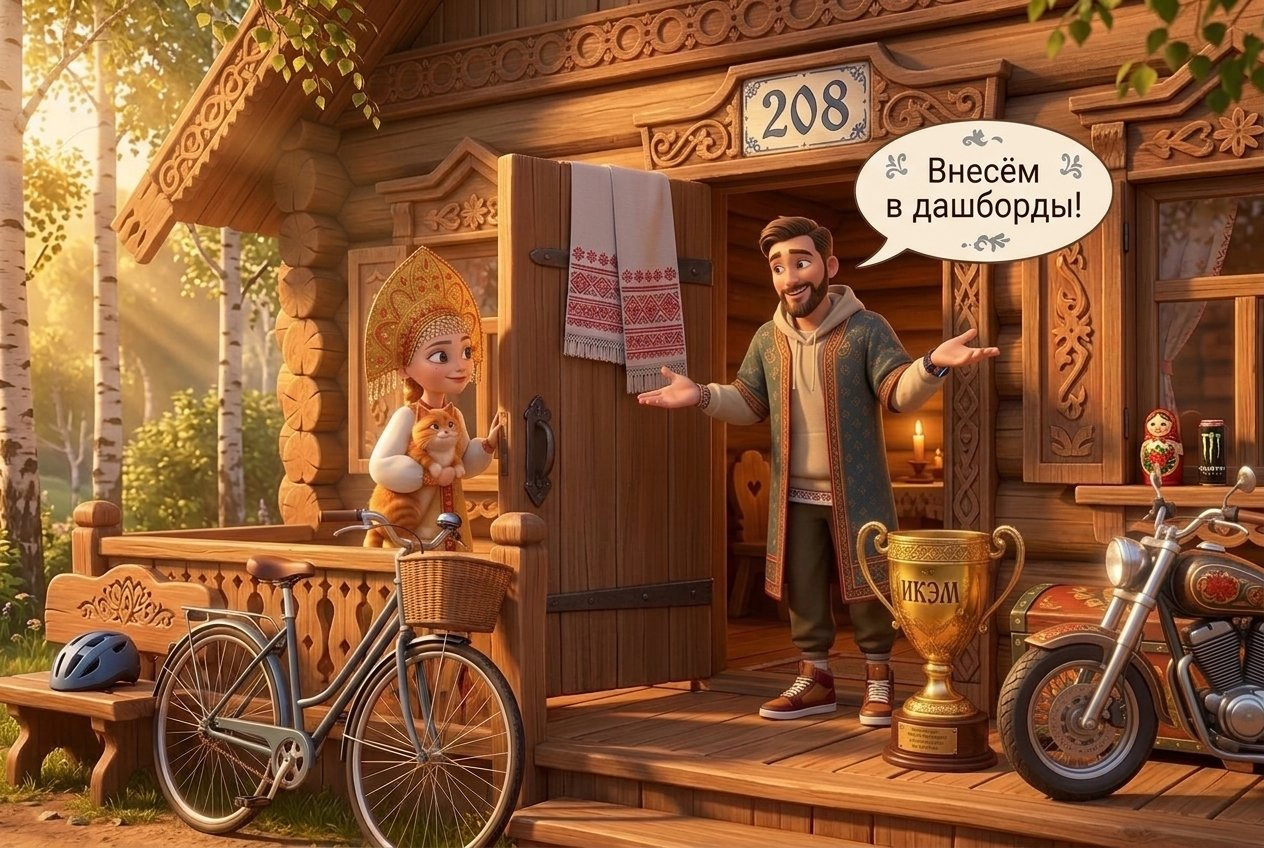
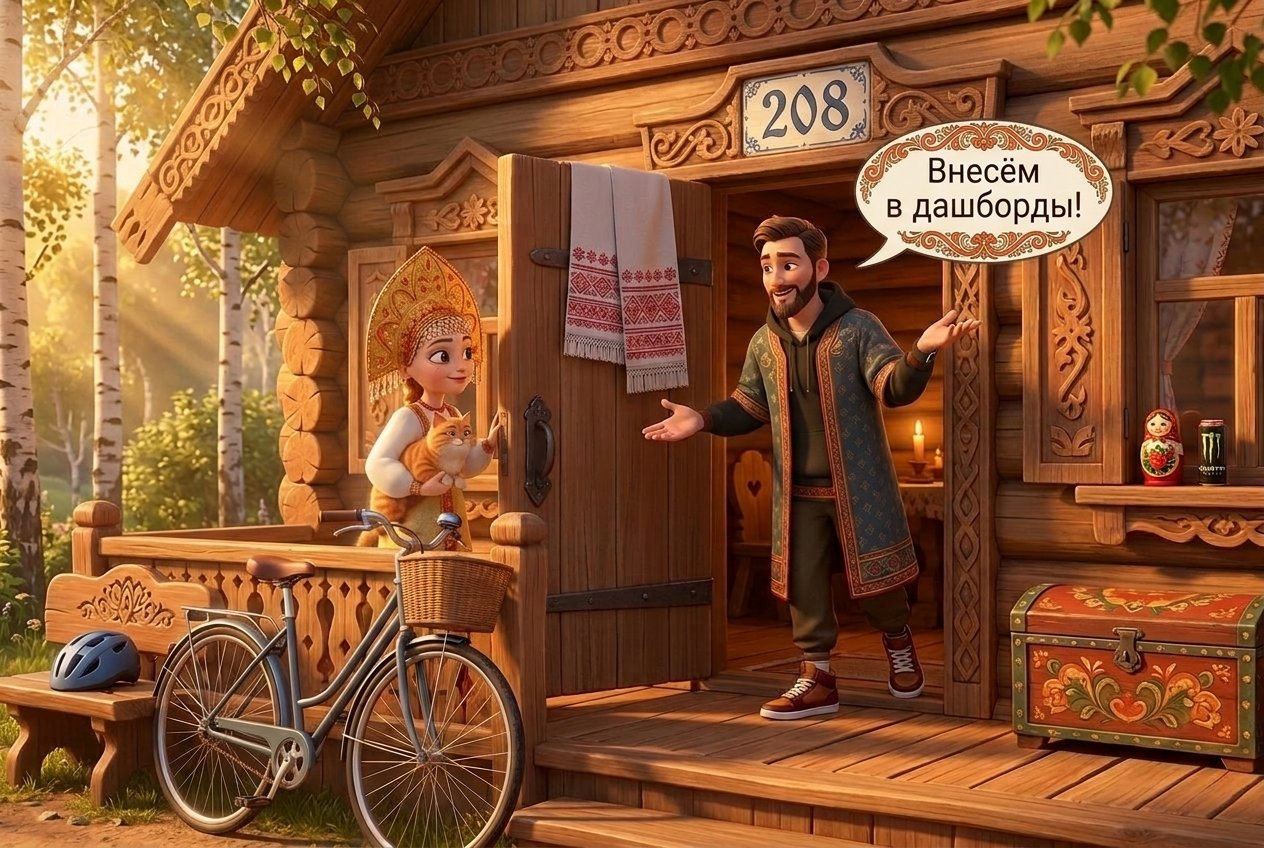
Превью: tender-pech-chistovik

diff --git a/tender-pech-chistovik/index.html b/tender-pech-chistovik/index.html
@@ -2,4 +2,4 @@
 <style>body{margin:0;background:#f6f1e7;font-family:system-ui,sans-serif;color:#222}h1{font-size:28px;margin:24px 16px 4px}p{margin:0 16px 20px;font-size:18px}
 main{display:grid;gap:28px;padding:0 16px 40px;max-width:1400px;margin:auto}figure{margin:0}img{width:100%;border-radius:12px;display:block}
 figcaption{font-size:24px;margin-top:8px}b{display:inline-block;background:#222;color:#fff;border-radius:50%;width:36px;height:36px;text-align:center;line-height:36px;margin-right:8px}</style></head>
-<body><h1>Тендер-печь: чистовая раскадровка</h1><p>Тёплый 3D, фирменная печь. Версия 5: облачка везде в русском стиле, в кадре 8 спрашивает Маша, мудрец 206 в очках с кубком ИКЭМ, мудрец 210 без усов, один мотоцикл у избы 210 во всех кадрах. Новое: неудачные дубли и титры с портретами (16-20). Правки пиши по номерам кадров.</p><main><figure><img src="c01-galaktika.jpg?v=2" loading="lazy"><figcaption><b>1</b> Галактика</figcaption></figure><figure><img src="c02-moskva.jpg?v=2" loading="lazy"><figcaption><b>2</b> Полёт к Москве</figcaption></figure><figure><img src="c03-terem.jpg?v=2" loading="lazy"><figcaption><b>3</b> Терем «Тендерный отдел»</figcaption></figure><figure><img src="c04-tron.jpg?v=2" loading="lazy"><figcaption><b>4</b> Мария Прекрасная на троне</figcaption></figure><figure><img src="c04b-gde-smety.jpg?v=5" loading="lazy"><figcaption><b>5</b> «Где сметы?!»</figcaption></figure><figure><img src="c05-orda.jpg?v=5" loading="lazy"><figcaption><b>6</b> Орда менеджеров</figcaption></figure><figure><img src="c06-ploshchadki.jpg?v=2" loading="lazy"><figcaption><b>7</b> Площадки, тендеры уходят</figcaption></figure><figure><img src="c07-skoro.jpg?v=5" loading="lazy"><figcaption><b>8</b> «Скоро будет»</figcaption></figure><figure><img src="c08-mimo206.jpg?v=6" loading="lazy"><figcaption><b>9</b> Изба 206: «Добавим Jarvis!»</figcaption></figure><figure><img src="c09-izba208.jpg?v=5" loading="lazy"><figcaption><b>10</b> Изба 208</figcaption></figure><figure><img src="c10-izba210.jpg?v=5" loading="lazy"><figcaption><b>11</b> Изба 210</figcaption></figure><figure><img src="c11-chudo.jpg?v=2" loading="lazy"><figcaption><b>12</b> Появление печи</figcaption></figure><figure><img src="c12-pechet.jpg?v=2" loading="lazy"><figcaption><b>13</b> Печь печёт сметы</figcaption></figure><figure><img src="c13-rabota.jpg?v=3" loading="lazy"><figcaption><b>14</b> Работа за 15 минут</figcaption></figure><figure><img src="c14-final.jpg?v=5" loading="lazy"><figcaption><b>15</b> Финал: победа в тендере</figcaption></figure><figure><img src="d01-dubl-kot.jpg?v=6" loading="lazy"><figcaption><b>16</b> Неудачный дубль: кот «Может, ИИ Кэмп?», Маша «Ой, не ИИ мне мозг!»</figcaption></figure><figure><img src="d02-dubl-kod.jpg?v=6" loading="lazy"><figcaption><b>17</b> Неудачный дубль: «Маш, можешь ИИ Кэмп?» … «Всё, не ИИ мне мозг!»</figcaption></figure><figure><img src="t1-varlamova.jpg?v=1" loading="lazy"><figcaption><b>18</b> Титры: Автор идеи и наставник: Мария Варламова</figcaption></figure><figure><img src="t2-zhuravlev.jpg?v=1" loading="lazy"><figcaption><b>19</b> Титры: Автор идеи: Станислав Журавлёв</figcaption></figure><figure><img src="t3-lesnyh.jpg?v=1" loading="lazy"><figcaption><b>20</b> Титры: Автор идеи, исполнитель и реализация: Мария Лесных</figcaption></figure></main></body></html>
+<body><h1>Тендер-печь: чистовая раскадровка</h1><p>Тёплый 3D, фирменная печь. Версия 5: облачка везде в русском стиле, в кадре 8 спрашивает Маша, мудрец 206 в очках с кубком ИКЭМ, мудрец 210 без усов, один мотоцикл у избы 210 во всех кадрах. Новое: неудачные дубли и титры с портретами (16-20). Правки пиши по номерам кадров.</p><main><figure><img src="c01-galaktika.jpg?v=2" loading="lazy"><figcaption><b>1</b> Галактика</figcaption></figure><figure><img src="c02-moskva.jpg?v=2" loading="lazy"><figcaption><b>2</b> Полёт к Москве</figcaption></figure><figure><img src="c03-terem.jpg?v=2" loading="lazy"><figcaption><b>3</b> Терем «Тендерный отдел»</figcaption></figure><figure><img src="c04-tron.jpg?v=2" loading="lazy"><figcaption><b>4</b> Мария Прекрасная на троне</figcaption></figure><figure><img src="c04b-gde-smety.jpg?v=5" loading="lazy"><figcaption><b>5</b> «Где сметы?!»</figcaption></figure><figure><img src="c05-orda.jpg?v=5" loading="lazy"><figcaption><b>6</b> Орда менеджеров</figcaption></figure><figure><img src="c06-ploshchadki.jpg?v=2" loading="lazy"><figcaption><b>7</b> Площадки, тендеры уходят</figcaption></figure><figure><img src="c07-skoro.jpg?v=5" loading="lazy"><figcaption><b>8</b> «Скоро будет»</figcaption></figure><figure><img src="c08-mimo206.jpg?v=7" loading="lazy"><figcaption><b>9</b> Изба 206: «Добавим Jarvis!»</figcaption></figure><figure><img src="c09-izba208.jpg?v=7" loading="lazy"><figcaption><b>10</b> Изба 208</figcaption></figure><figure><img src="c10-izba210.jpg?v=7" loading="lazy"><figcaption><b>11</b> Изба 210</figcaption></figure><figure><img src="c11-chudo.jpg?v=2" loading="lazy"><figcaption><b>12</b> Появление печи</figcaption></figure><figure><img src="c12-pechet.jpg?v=2" loading="lazy"><figcaption><b>13</b> Печь печёт сметы</figcaption></figure><figure><img src="c13-rabota.jpg?v=3" loading="lazy"><figcaption><b>14</b> Работа за 15 минут</figcaption></figure><figure><img src="c14-final.jpg?v=5" loading="lazy"><figcaption><b>15</b> Финал: победа в тендере</figcaption></figure><figure><img src="d01-dubl-kot.jpg?v=6" loading="lazy"><figcaption><b>16</b> Неудачный дубль: кот «Может, ИИ Кэмп?», Маша «Ой, не ИИ мне мозг!»</figcaption></figure><figure><img src="d02-dubl-kod.jpg?v=6" loading="lazy"><figcaption><b>17</b> Неудачный дубль: «Маш, можешь ИИ Кэмп?» … «Всё, не ИИ мне мозг!»</figcaption></figure><figure><img src="t1-varlamova.jpg?v=1" loading="lazy"><figcaption><b>18</b> Титры: Автор идеи и наставник: Мария Варламова</figcaption></figure><figure><img src="t2-zhuravlev.jpg?v=1" loading="lazy"><figcaption><b>19</b> Титры: Автор идеи: Станислав Журавлёв</figcaption></figure><figure><img src="t3-lesnyh.jpg?v=1" loading="lazy"><figcaption><b>20</b> Титры: Автор идеи, исполнитель и реализация: Мария Лесных</figcaption></figure></main></body></html>
